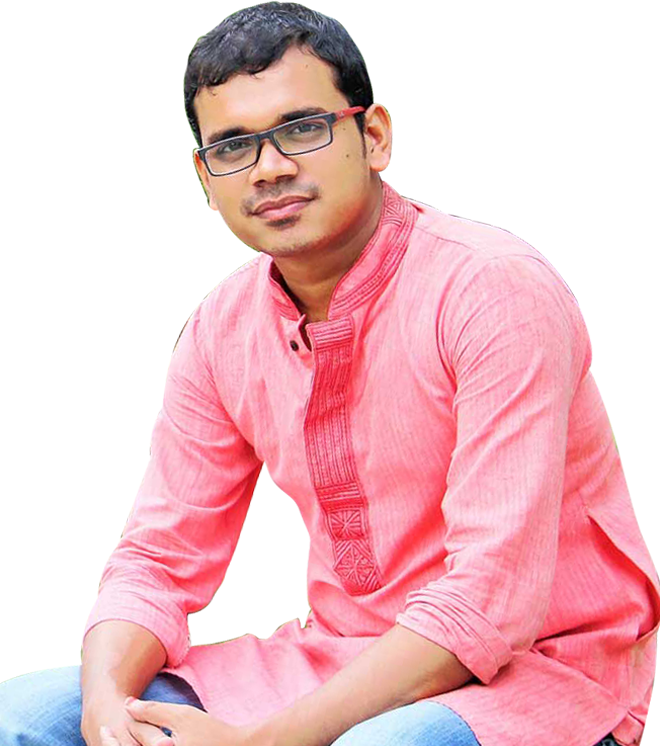
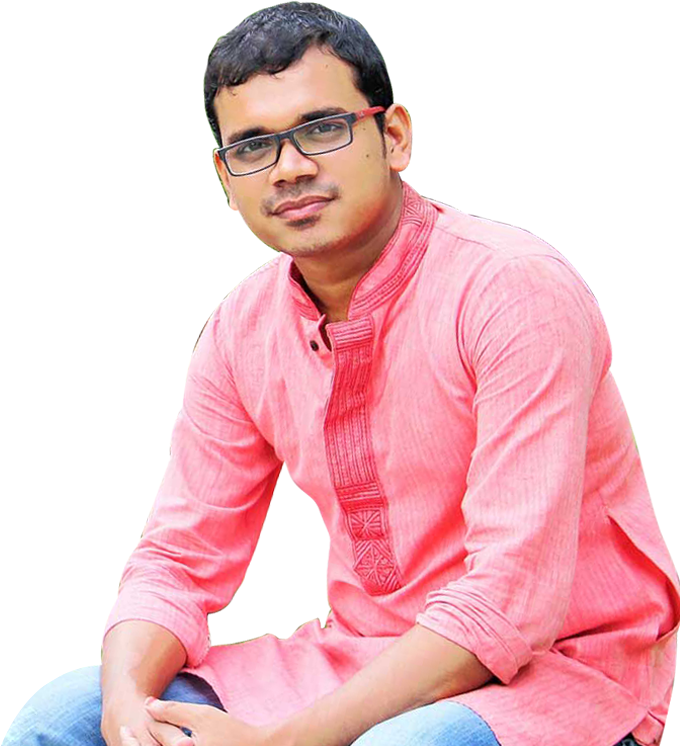
finalize section-1 work

diff --git a/style.css b/style.css
@@ -4,7 +4,7 @@ body{
     font-size: 20px;
 }
 header{
-    background-color: rgb(41, 41, 41);
+    background-color: tomato;
     height: 50px;
     overflow: hidden;
     position: fixed;
@@ -12,15 +12,16 @@ header{
 }
 
 header h2{
-    max-width: 1200px;
+    max-width: 1500px;
     color: white;
     margin: 0 auto;
     padding: 10px 0;
 }
 
 h1{
-    font-size: 38px;
+    font-size: 35px;
     margin: 18px 0 -9px;
+    color: tomato;
 }
 
 h2{
@@ -30,27 +31,39 @@ h2{
 p{
     color: dimgray;
     font-size: 20px;
-    text-align: justify;
-    padding-right: 15px;
-    line-height: 26px;
 }
 section{
-    max-width: 1200px;
     height: 500px;
     margin: auto;
     padding-top: 50px;
 }
 
+.conten-middle{
+   display: flex;
+   justify-content: center;
+   align-items: center;
+}
+
 .upper-section{
-    float: left;
+
     width: 40%;
 
 }
-#position{
-    margin-top: 50px;
+
+.button-style{
+    background-image: linear-gradient(to right bottom, #ff8f44, #eb12a0);
+    color: white;
+    padding: 10px 20px;
+    border-radius: 5px;
 }
 .upper-section img{
-    width: 80%;
+    width: 65%;
     float: right;
     text-align: center;
+    margin-top: 50px;
+}
+
+.middle-section{
+    background-color: rgb(243, 243, 243);
+    height: 100%;
 }

diff --git a/index.html b/index.html
@@ -17,11 +17,12 @@
     </header>
 
     <!-- section-1 -->
-    <section>
-        <div id="position" class="upper-section">
-            <p>Hello</p>
+    <section class="conten-middle">
+        <div class="upper-section">
+            <p>Hello,</p>
             <h1>I am Mehadi Hasan Diner</h1>
             <p>Freelancer, Web Designer & Developer</p>
+            <p> <span class="button-style">Hire Me</span> </p>
         </div>
 
         <div class="upper-section">
@@ -30,7 +31,11 @@
     </section>
     
     <!-- section-2 -->
-    <section></section>
+    <section>
+        <div class="middle-section">
+            
+        </div>
+    </section>
 
     <!-- section-3 -->
     <section></section>
